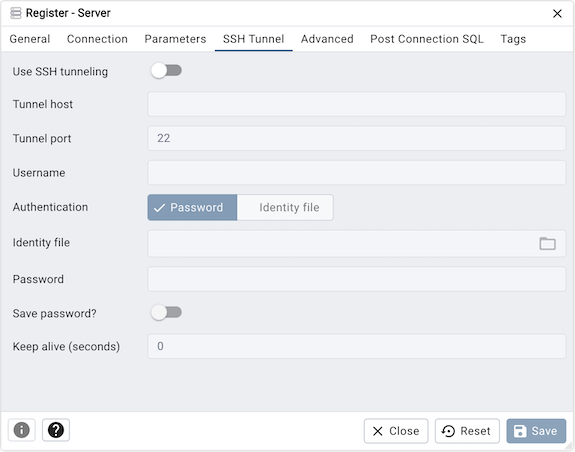
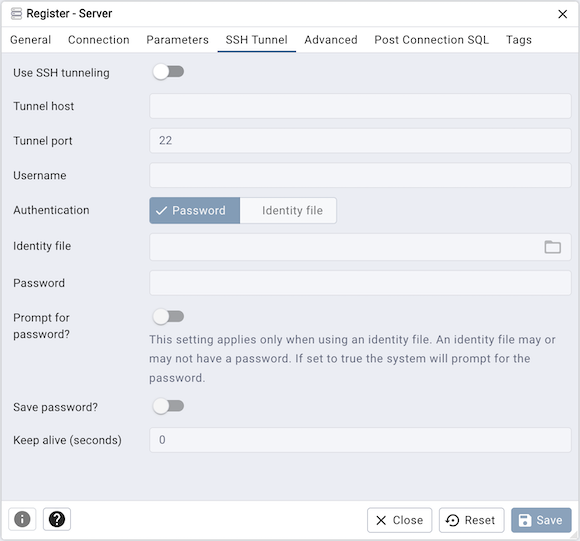
Added option to skip the password dialog when using an identity file. #6996
1. Don't ask for the SSH Tunnel or Database server password if it is already saved.
2. Modified the generic error message from the SSH Tunnel library.

diff --git a/web/pgadmin/static/js/Dialogs/ConnectServerContent.jsx b/web/pgadmin/static/js/Dialogs/ConnectServerContent.jsx
@@ -109,21 +109,23 @@ export default function ConnectServerContent({closeModal, data, onOK, setHeight,
         <DefaultButton data-test="close" startIcon={<CloseIcon />} onClick={()=>{
           closeModal();
         }} >{gettext('Cancel')}</DefaultButton>
-        <PrimaryButton ref={okBtnRef} data-test="save" startIcon={<CheckRoundedIcon />} onClick={()=>{
-          let postFormData = new FormData();
-          if(data.prompt_tunnel_password) {
-            postFormData.append('tunnel_password', formData.tunnel_password);
-            formData.save_tunnel_password &&
-              postFormData.append('save_tunnel_password', formData.save_tunnel_password);
-          }
-          if(data.prompt_password) {
-            postFormData.append('password', formData.password);
-            formData.save_password &&
-              postFormData.append('save_password', formData.save_password);
-          }
-          onOK?.(postFormData);
-          closeModal();
-        }} >{gettext('OK')}</PrimaryButton>
+        {(data.prompt_password || data.prompt_tunnel_password) && <>
+          <PrimaryButton ref={okBtnRef} data-test="save" startIcon={<CheckRoundedIcon />} onClick={()=>{
+            let postFormData = new FormData();
+            if(data.prompt_tunnel_password) {
+              postFormData.append('tunnel_password', formData.tunnel_password);
+              formData.save_tunnel_password &&
+                postFormData.append('save_tunnel_password', formData.save_tunnel_password);
+            }
+            if(data.prompt_password) {
+              postFormData.append('password', formData.password);
+              formData.save_password &&
+                postFormData.append('save_password', formData.save_password);
+            }
+            onOK?.(postFormData);
+            closeModal();
+          }} >{gettext('OK')}</PrimaryButton>
+        </>}
       </ModalFooter>
     </ModalContent>
   );

diff --git a/web/pgadmin/browser/server_groups/servers/static/js/server.ui.js b/web/pgadmin/browser/server_groups/servers/static/js/server.ui.js
@@ -211,6 +211,7 @@ export default class ServerSchema extends BaseUISchema {
       tunnel_port: 22,
       tunnel_username: undefined,
       tunnel_identity_file: undefined,
+      tunnel_prompt_password: false,
       tunnel_password: undefined,
       tunnel_authentication: false,
       tunnel_keep_alive: 0,
@@ -496,7 +497,22 @@ export default class ServerSchema extends BaseUISchema {
           maxLength: null
         },
         readonly: obj.isConnected,
-      }, {
+      },
+      {
+        id: 'tunnel_prompt_password', label: gettext('Prompt for password?'),
+        type: 'switch', group: gettext('SSH Tunnel'), mode: ['properties', 'edit', 'create'],
+        deps: ['tunnel_authentication', 'use_ssh_tunnel'],
+        depChange: (state)=>{
+          if (!state.tunnel_authentication) {
+            return {tunnel_prompt_password: false};
+          }
+        },
+        disabled: function(state) {
+          return !state.tunnel_authentication || !state.use_ssh_tunnel;
+        },
+        helpMessage: gettext('This setting applies only when using an identity file. An identity file may or may not have a password. If set to true the system will prompt for the password.')
+      },
+      {
         id: 'save_tunnel_password', label: gettext('Save password?'),
         type: 'switch', group: gettext('SSH Tunnel'), mode: ['create'],
         deps: ['connect_now', 'use_ssh_tunnel'],

diff --git a/web/pgadmin/browser/server_groups/servers/__init__.py b/web/pgadmin/browser/server_groups/servers/__init__.py
@@ -167,6 +167,7 @@ class ServerModule(sg.ServerGroupPluginModule):
         server.tunnel_password = sharedserver.tunnel_password
         server.save_password = sharedserver.save_password
         server.tunnel_identity_file = sharedserver.tunnel_identity_file
+        server.tunnel_prompt_password = sharedserver.tunnel_prompt_password
         if hasattr(server, 'connection_params') and \
             hasattr(sharedserver, 'connection_params') and \
             'passfile' in server.connection_params and \
@@ -413,6 +414,7 @@ class ServerModule(sg.ServerGroupPluginModule):
                 tunnel_authentication=0,
                 tunnel_identity_file=None,
                 tunnel_keep_alive=0,
+                tunnel_prompt_password=0,
                 shared=True,
                 connection_params=data.connection_params,
                 prepare_threshold=data.prepare_threshold
@@ -790,6 +792,7 @@ class ServerNode(PGChildNodeView):
             'tunnel_username': 'tunnel_username',
             'tunnel_authentication': 'tunnel_authentication',
             'tunnel_identity_file': 'tunnel_identity_file',
+            'tunnel_prompt_password': 'tunnel_prompt_password',
             'tunnel_keep_alive': 'tunnel_keep_alive',
             'shared': 'shared',
             'shared_username': 'shared_username',
@@ -1086,6 +1089,8 @@ class ServerNode(PGChildNodeView):
             'tunnel_username': tunnel_username,
             'tunnel_identity_file': server.tunnel_identity_file
             if server.tunnel_identity_file else None,
+            'tunnel_prompt_password': server.tunnel_prompt_password
+            if server.tunnel_identity_file else 0,
             'tunnel_authentication': tunnel_authentication,
             'tunnel_keep_alive': tunnel_keep_alive,
             'kerberos_conn': bool(server.kerberos_conn),
@@ -1212,6 +1217,8 @@ class ServerNode(PGChildNodeView):
                 tunnel_authentication=1 if data.get('tunnel_authentication',
                                                     False) else 0,
                 tunnel_identity_file=data.get('tunnel_identity_file', None),
+                tunnel_prompt_password=1 if data.get('tunnel_prompt_password',
+                                                     True) else 0,
                 tunnel_keep_alive=data.get('tunnel_keep_alive', 0),
                 shared=data.get('shared', None),
                 shared_username=data.get('shared_username', None),
@@ -1419,6 +1426,19 @@ class ServerNode(PGChildNodeView):
             }
         )
 
+    def is_prompt_tunnel_password(self, server):
+        """
+        This function will check whether to prompt tunnel password or not.
+        """
+        prompt_tunnel_password = True
+        # In case of identity file check the value of tunnel_prompt_password.
+        if server.tunnel_password is not None or \
+            (server.tunnel_identity_file is not None and
+             server.tunnel_prompt_password != 1):
+            prompt_tunnel_password = False
+
+        return prompt_tunnel_password
+
     def connect(self, gid, sid, is_qt=False, server=None):
         """
         Connect the Server and return the connection object.
@@ -1502,11 +1522,12 @@ class ServerNode(PGChildNodeView):
 
         # If server using SSH Tunnel
         if server.use_ssh_tunnel:
-            if 'tunnel_password' not in data:
-                if server.tunnel_password is None:
-                    prompt_tunnel_password = True
-                else:
-                    tunnel_password = server.tunnel_password
+            if 'tunnel_password' not in data and \
+                    server.tunnel_password is None:
+                prompt_tunnel_password = self.is_prompt_tunnel_password(server)
+            elif 'tunnel_password' not in data and \
+                    server.tunnel_password is not None:
+                tunnel_password = server.tunnel_password
             else:
                 tunnel_password = data['tunnel_password'] \
                     if 'tunnel_password' in data else ''
@@ -1562,6 +1583,10 @@ class ServerNode(PGChildNodeView):
             return self.get_response_for_password(
                 server, 428, prompt_password, prompt_tunnel_password)
 
+        # Check whether to prompt for the tunnel password in case if
+        # password is saved in server object or in data.
+        prompt_tunnel_password = self.is_prompt_tunnel_password(server)
+
         try:
             status, errmsg = conn.connect(
                 password=password,
@@ -1571,7 +1596,7 @@ class ServerNode(PGChildNodeView):
             )
         except Exception as e:
             return self.get_response_for_password(
-                server, 401, True, True,
+                server, 401, not server.save_password, prompt_tunnel_password,
                 getattr(e, 'message', str(e)))
 
         if not status:
@@ -1583,7 +1608,8 @@ class ServerNode(PGChildNodeView):
                 return internal_server_error(errmsg)
 
             return self.get_response_for_password(
-                server, 401, True, True, errmsg)
+                server, 401, not server.save_password,
+                prompt_tunnel_password, errmsg)
         else:
             if save_password and config.ALLOW_SAVE_PASSWORD:
                 try:

diff --git a/web/pgadmin/utils/driver/psycopg3/server_manager.py b/web/pgadmin/utils/driver/psycopg3/server_manager.py
@@ -99,6 +99,7 @@ class ServerManager(object):
                 if server.tunnel_authentication is None \
                 else server.tunnel_authentication
             self.tunnel_identity_file = server.tunnel_identity_file
+            self.tunnel_prompt_password = server.tunnel_prompt_password
             self.tunnel_password = server.tunnel_password
             self.tunnel_keep_alive = server.tunnel_keep_alive
         else:
@@ -108,6 +109,7 @@ class ServerManager(object):
             self.tunnel_username = None
             self.tunnel_authentication = None
             self.tunnel_identity_file = None
+            self.tunnel_prompt_password = 0
             self.tunnel_password = None
             self.tunnel_keep_alive = 0
 
@@ -610,8 +612,12 @@ WHERE db.oid = {0}""".format(did))
             self.tunnel_created = True
         except BaseSSHTunnelForwarderError as e:
             current_app.logger.exception(e)
-            return False, gettext("Failed to create the SSH tunnel.\n"
-                                  "Error: {0}").format(str(e))
+            return False, gettext(
+                "Failed to create the SSH tunnel. Possible causes:\n"
+                "1. Enter the correct tunnel password (Clear saved password "
+                "if it has changed).\n 2. If using an identity file that "
+                "requires a password, enable “Prompt for Password?” in the "
+                "server dialog. \n 3. Verify the host address.")
 
         # Update the port to communicate locally
         self.local_bind_port = self.tunnel_object.local_bind_port

diff --git a/web/migrations/versions/efbbe5d5862f_.py b/web/migrations/versions/efbbe5d5862f_.py
@@ -1,0 +1,42 @@
+##########################################################################
+#
+# pgAdmin 4 - PostgreSQL Tools
+#
+# Copyright (C) 2013 - 2025, The pgAdmin Development Team
+# This software is released under the PostgreSQL Licence
+#
+##########################################################################
+
+"""
+Revision ID: efbbe5d5862f
+Revises: e6ed5dac37c2
+Create Date: 2025-09-29 18:40:30.248908
+
+"""
+from alembic import op, context
+import sqlalchemy as sa
+
+
+# revision identifiers, used by Alembic.
+revision = 'efbbe5d5862f'
+down_revision = 'e6ed5dac37c2'
+branch_labels = None
+depends_on = None
+
+
+def upgrade():
+    with op.batch_alter_table(
+            "server",
+            table_kwargs={'sqlite_autoincrement': True}) as batch_op:
+        batch_op.add_column(sa.Column('tunnel_prompt_password',
+                                      sa.Integer(), server_default='0'))
+    with op.batch_alter_table(
+        "sharedserver",
+            table_kwargs={'sqlite_autoincrement': True}) as batch_op:
+        batch_op.add_column(sa.Column('tunnel_prompt_password',
+                                      sa.Integer(), server_default='0'))
+
+
+def downgrade():
+    # pgAdmin only upgrades, downgrade not implemented.
+    pass

diff --git a/web/pgadmin/model/__init__.py b/web/pgadmin/model/__init__.py
@@ -33,7 +33,7 @@ import config
 #
 ##########################################################################
 
-SCHEMA_VERSION = 47
+SCHEMA_VERSION = 48
 
 ##########################################################################
 #
@@ -246,6 +246,11 @@ class Server(db.Model):
         nullable=False
     )
     tunnel_identity_file = db.Column(db.String(64), nullable=True)
+    tunnel_prompt_password = db.Column(
+        db.Integer(), db.CheckConstraint(
+            'tunnel_prompt_password >= 0 AND tunnel_prompt_password <= 1'),
+        nullable=False
+    )
     tunnel_password = db.Column(PgAdminDbBinaryString())
     tunnel_keep_alive = db.Column(db.Integer(), nullable=True, default=0)
     shared = db.Column(db.Boolean(), nullable=False)
@@ -483,6 +488,11 @@ class SharedServer(db.Model):
         nullable=False
     )
     tunnel_identity_file = db.Column(db.String(64), nullable=True)
+    tunnel_prompt_password = db.Column(
+        db.Integer(), db.CheckConstraint(
+            'tunnel_prompt_password >= 0 AND tunnel_prompt_password <= 1'),
+        nullable=False
+    )
     tunnel_password = db.Column(PgAdminDbBinaryString())
     tunnel_keep_alive = db.Column(db.Integer(), nullable=True)
     shared = db.Column(db.Boolean(), nullable=False)

diff --git a/web/pgadmin/utils/__init__.py b/web/pgadmin/utils/__init__.py
@@ -525,6 +525,8 @@ def dump_database_servers(output_file, selected_servers,
                       server.tunnel_authentication)
             add_value(attr_dict, "TunnelIdentityFile",
                       server.tunnel_identity_file)
+            add_value(attr_dict, "TunnelPromptPassword",
+                      server.tunnel_prompt_password)
             add_value(attr_dict, "TunnelKeepAlive",
                       server.tunnel_keep_alive)
             add_value(attr_dict, "KerberosAuthentication",
@@ -772,6 +774,9 @@ def load_database_servers(input_file, selected_servers,
 
             new_server.tunnel_identity_file = \
                 obj.get("TunnelIdentityFile", None)
+
+            new_server.tunnel_prompt_password = \
+                obj.get("TunnelPromptPassword", 0)
 
             new_server.tunnel_keep_alive = \
                 obj.get("TunnelKeepAlive", None)

diff --git a/web/pgadmin/browser/server_groups/servers/tests/test_check_ssh_mock_connect.py b/web/pgadmin/browser/server_groups/servers/tests/test_check_ssh_mock_connect.py
@@ -77,6 +77,7 @@ class ServersSSHConnectTestCase(BaseTestGenerator):
                     self.service = service
                     self.save_password = 0
                     self.shared = None
+                    self.tunnel_prompt_password = 0
 
             mock_server_obj = TestMockServer(
                 self.mock_data['name'],

diff --git a/docs/en_US/release_notes_9_9.rst b/docs/en_US/release_notes_9_9.rst
@@ -8,7 +8,7 @@ This release contains a number of bug fixes and new features since the release o
 
 Supported Database Servers
 **************************
-**PostgreSQL**: 13, 14, 15, 16 and 17
+**PostgreSQL**: 13, 14, 15, 16, 17 and 18
 
 **EDB Advanced Server**: 13, 14, 15, 16 and 17
 
@@ -20,8 +20,10 @@ Bundled PostgreSQL Utilities
 New features
 ************
 
+  | `Issue #6385 <https://github.com/pgadmin-org/pgadmin4/issues/6385>`_ -  Add support of DEPENDS/NO DEPENDS ON EXTENSION for ALTER FUNCTION.
   | `Issue #6394 <https://github.com/pgadmin-org/pgadmin4/issues/6394>`_ -  Added "MULTIRANGE_TYPE_NAME" option while creating a Range Type.
   | `Issue #6395 <https://github.com/pgadmin-org/pgadmin4/issues/6395>`_ -  Added "SUBSCRIPT" option while creating a External Type.
+  | `Issue #6996 <https://github.com/pgadmin-org/pgadmin4/issues/6996>`_ -  Added option to skip the password dialog when using an identity file.
   | `Issue #8932 <https://github.com/pgadmin-org/pgadmin4/issues/8932>`_ -  Added 'failover' and 'two_phase' parameter support in CREATE/ALTER SUBSCRIPTION for PostgreSQL v17+.
 
 Housekeeping

diff --git a/docs/en_US/server_dialog.rst b/docs/en_US/server_dialog.rst
@@ -177,6 +177,9 @@ not be able to connect directly.
   *Identity file* field to specify the location of the key file.
 * If the SSH host is expecting a password of the user name or an identity file
   if being used, use the *Password* field to specify the password.
+* Check the box next to *Prompt for password?* to to have pgAdmin prompt for
+  a password if the identity file includes one. This setting applies only when
+  using an identity file, which may or may not require a password.
 * Check the box next to *Save password?* to instruct pgAdmin to save the
   password for future use. Use
   :ref:`Clear SSH Tunnel Password <clear_saved_passwords>` to remove the saved
